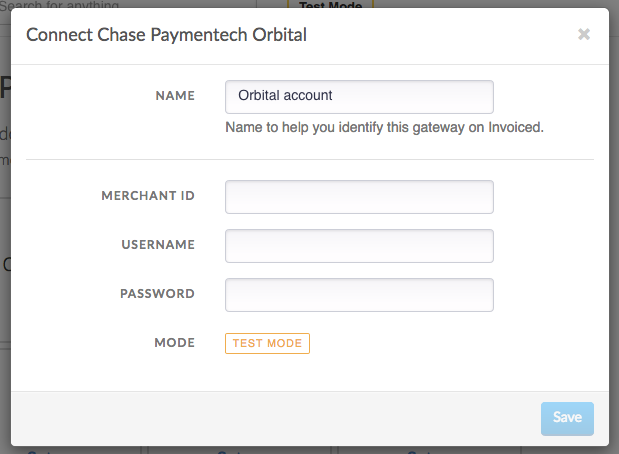
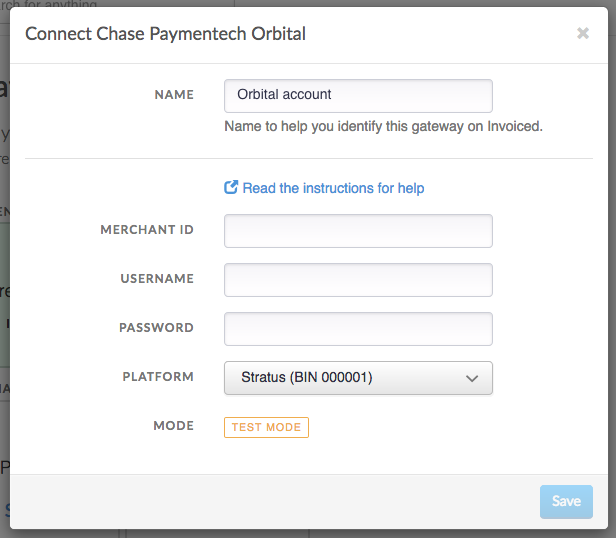
added orbital tandem platform

diff --git a/integrations/chase-paymentech.md b/integrations/chase-paymentech.md
@@ -7,13 +7,15 @@ This document details how to connect the [Chase Paymentech](https://www.chasepay
 The Chase Paymentech Orbital payment gateway on Invoiced supports the following features:
 
 - [Credit card payments](/docs/payments/card)
-- [ACH payments](/docs/payments/ach) (U.S. only)
+- [ACH payments](/docs/payments/ach) (U.S. only, Stratus only)
 - Vaulting payment information (credit card and ACH)
 - [AutoPay](/docs/payments/autopay)
 
 ## Prerequisite
 
-The Chase Paymentech integration uses the Orbital gateway with the Stratus Platform (BIN 000001). You need to make sure your gateway account is set up to process transactions for the right host platform.
+The Chase Paymentech integration uses the Orbital gateway. It supports two different platforms: Stratus (BIN 000001) and PNS / Tandem (BIN 000002). The Stratus platform supports more features than Tandem, like ACH debits. You need to make sure you know the correct host platform your gateway account is set up on before configuring Invoiced.
+
+Generally if your merchant ID is 6 digits you will be on the Stratus platform. If your merchant ID is 12 digits then you are likely on the PNS / Tandem platform.
 
 ## Setup
 
